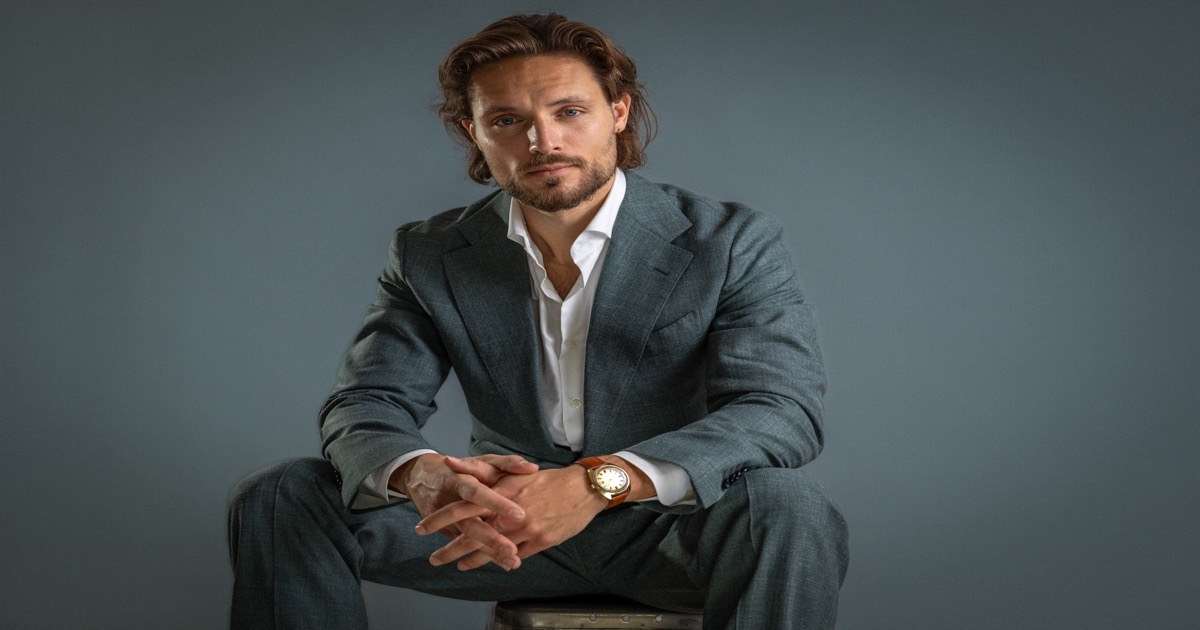
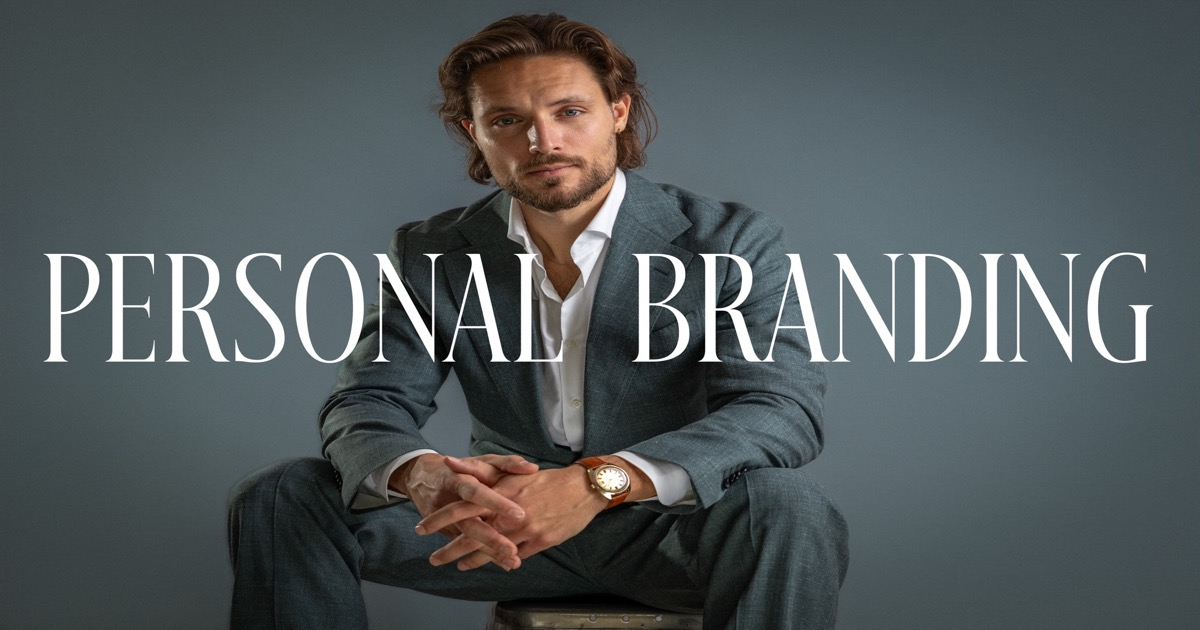
Fix the personal branding hero crop and switch to the renamed hero file.

Changed region(s): [[0.0308, 0.3921, 0.4933, 0.573], [0.5242, 0.3921, 0.9558, 0.573]]

diff --git a/en/blog/personal-branding-photography-website-cv-linkedin/index.html b/en/blog/personal-branding-photography-website-cv-linkedin/index.html
@@ -48,7 +48,7 @@
   },
   "image": {
     "@type": "ImageObject",
-    "url": "https://www.willemmartinot.nl/images/en/1920/1N8A1690-personal-branding-photography-the-hague-hero.jpg",
+    "url": "https://www.willemmartinot.nl/images/en/1920/personal-branding-photography.jpg",
     "width": 1920,
     "height": 1280
   },
@@ -108,10 +108,10 @@
 </header>
 
     <div class="hero hero-single">
-      <img src="/images/en/1920/1N8A1690-personal-branding-photography-the-hague-hero.jpg"
-           srcset="/images/en/800/1N8A1690-personal-branding-photography-the-hague-hero.jpg 800w,
-                   /images/en/1200/1N8A1690-personal-branding-photography-the-hague-hero.jpg 1200w,
-                   /images/en/1920/1N8A1690-personal-branding-photography-the-hague-hero.jpg 1920w"
+      <img src="/images/en/1920/personal-branding-photography.jpg"
+           srcset="/images/en/800/personal-branding-photography.jpg 800w,
+                   /images/en/1200/personal-branding-photography.jpg 1200w,
+                   /images/en/1920/personal-branding-photography.jpg 1920w"
            sizes="100vw"
            alt="Personal branding photography — professional studio portrait man in grey blazer, The Hague"
            width="1920" height="1280"

diff --git a/blog-fotograaf-den-haag/personal-branding-fotografie-website-cv-linkedin/index.html b/blog-fotograaf-den-haag/personal-branding-fotografie-website-cv-linkedin/index.html
@@ -48,7 +48,7 @@
   },
   "image": {
     "@type": "ImageObject",
-    "url": "https://www.willemmartinot.nl/images/nl/1920/1N8A1690-personal-branding-fotografie-den-haag-hero.jpg",
+    "url": "https://www.willemmartinot.nl/images/nl/1920/personal-branding-fotografie.jpg",
     "width": 1920,
     "height": 1280
   },
@@ -108,10 +108,10 @@
 </header>
 
     <div class="hero hero-single">
-      <img src="/images/nl/1920/1N8A1690-personal-branding-fotografie-den-haag-hero.jpg"
-           srcset="/images/nl/800/1N8A1690-personal-branding-fotografie-den-haag-hero.jpg 800w,
-                   /images/nl/1200/1N8A1690-personal-branding-fotografie-den-haag-hero.jpg 1200w,
-                   /images/nl/1920/1N8A1690-personal-branding-fotografie-den-haag-hero.jpg 1920w"
+      <img src="/images/nl/1920/personal-branding-fotografie.jpg"
+           srcset="/images/nl/800/personal-branding-fotografie.jpg 800w,
+                   /images/nl/1200/personal-branding-fotografie.jpg 1200w,
+                   /images/nl/1920/personal-branding-fotografie.jpg 1920w"
            sizes="100vw"
            alt="Personal branding fotografie — professioneel studio-portret man in grijs colbert, Den Haag"
            width="1920" height="1280"

diff --git a/blog-fotograaf-den-haag/index.html b/blog-fotograaf-den-haag/index.html
@@ -89,9 +89,9 @@
           <article class="blog-card">
             <a href="/blog-fotograaf-den-haag/personal-branding-fotografie-website-cv-linkedin/" class="blog-card__link">
               <img class="blog-card__image"
-                   src="/images/nl/1200/1N8A1690-personal-branding-fotografie-den-haag-hero.jpg"
-                   srcset="/images/nl/800/1N8A1690-personal-branding-fotografie-den-haag-hero.jpg 800w,
-                           /images/nl/1200/1N8A1690-personal-branding-fotografie-den-haag-hero.jpg 1200w"
+                   src="/images/nl/1200/personal-branding-fotografie.jpg"
+                   srcset="/images/nl/800/personal-branding-fotografie.jpg 800w,
+                           /images/nl/1200/personal-branding-fotografie.jpg 1200w"
                    sizes="(max-width: 768px) 100vw, 33vw"
                    alt="Personal branding fotografie — studio-portret voor website, CV en LinkedIn"
                    width="1200" height="800"

diff --git a/en/blog/index.html b/en/blog/index.html
@@ -89,9 +89,9 @@
           <article class="blog-card">
             <a href="/en/blog/personal-branding-photography-website-cv-linkedin/" class="blog-card__link">
               <img class="blog-card__image"
-                   src="/images/en/1200/1N8A1690-personal-branding-photography-the-hague-hero.jpg"
-                   srcset="/images/en/800/1N8A1690-personal-branding-photography-the-hague-hero.jpg 800w,
-                           /images/en/1200/1N8A1690-personal-branding-photography-the-hague-hero.jpg 1200w"
+                   src="/images/en/1200/personal-branding-photography.jpg"
+                   srcset="/images/en/800/personal-branding-photography.jpg 800w,
+                           /images/en/1200/personal-branding-photography.jpg 1200w"
                    sizes="(max-width: 768px) 100vw, 33vw"
                    alt="Personal branding photography — studio portrait for website, CV and LinkedIn"
                    width="1200" height="800"

diff --git a/css/main.css b/css/main.css
@@ -658,14 +658,8 @@ p {
 }
 
 .hero-section--personal-branding.hero-section--short {
-  --hero-pos: 50% 22%;
-  --hero-pos-mobile: 50% 28%;
-}
-
-@media (min-width: 1600px) {
-  .hero-section--personal-branding.hero-section--short {
-    --hero-pos: 50% 20%;
-  }
+  --hero-pos: center center;
+  --hero-pos-mobile: center center;
 }
 
 .blog-caption {
@@ -742,6 +736,14 @@ p {
   height: clamp(280px, 48vw, 540px);
   min-height: 280px;
   flex-shrink: 0;
+}
+
+/* After short-hero height — match 3:2 personal-branding photo so the subject fits */
+.hero-section.hero-section--short.hero-section--personal-branding .hero {
+  height: auto;
+  min-height: 0;
+  aspect-ratio: 3 / 2;
+  max-height: none;
 }
 
 .hero-section--ceo-headshot.hero-section--short {
